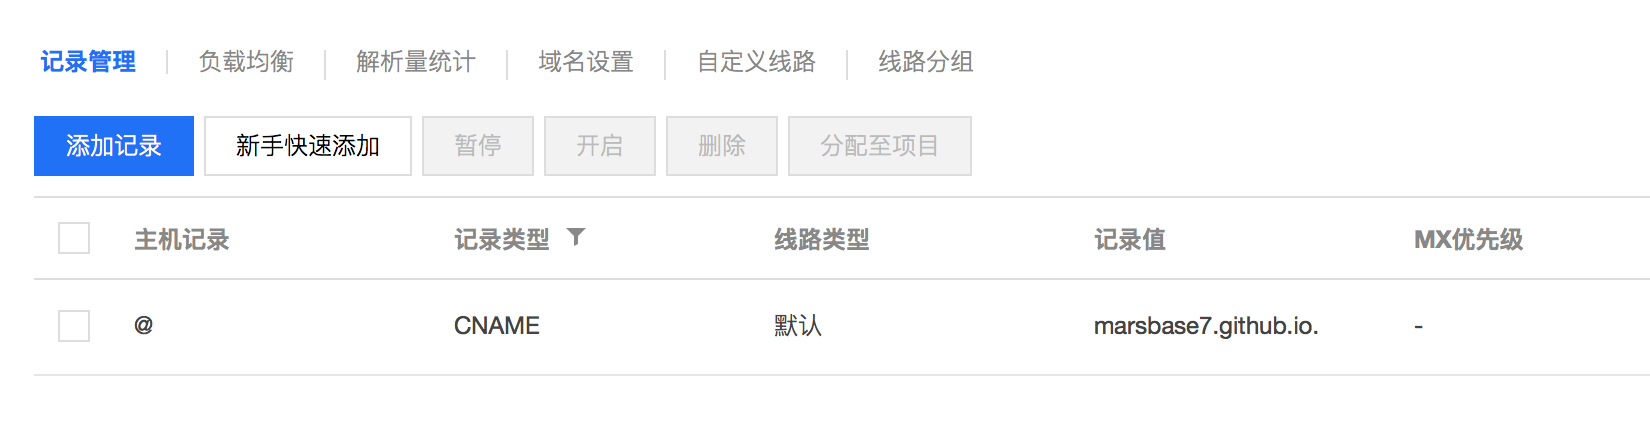
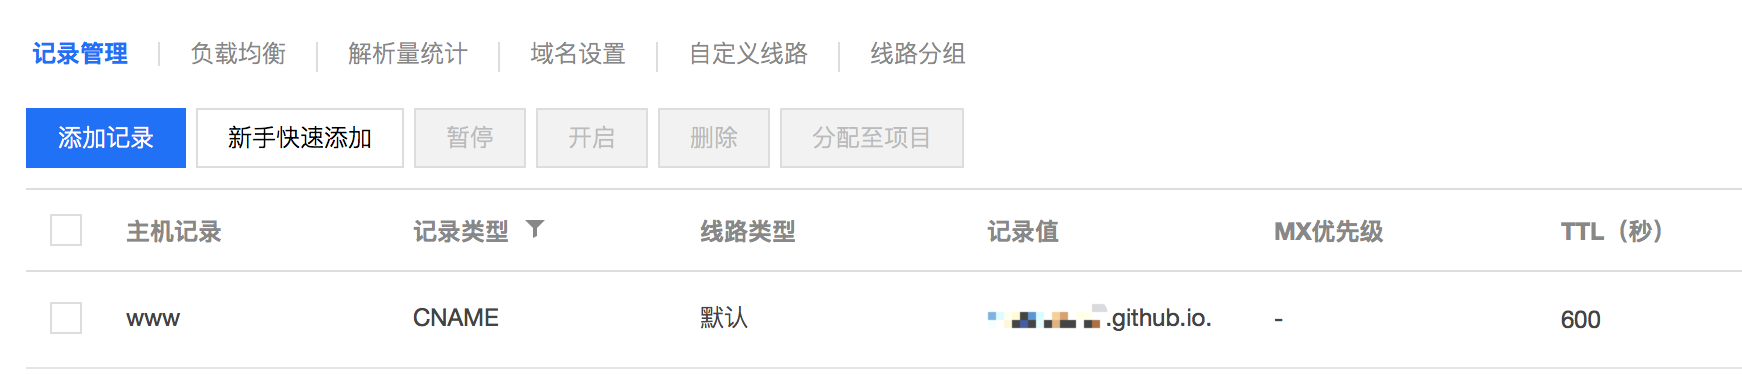
xyz

diff --git a/source/_posts/把BLOG放进冰箱一共分几步.md b/source/_posts/把BLOG放进冰箱一共分几步.md
@@ -139,9 +139,9 @@ $ hexo deploy
 
 {% asset_img cname_set.png %}
 
-然后回到本地，在`blogBase/source/`目录下新建一个`CNAME`文件（注意文件名必须大写），文件内容为私有域名地址。新建文件后再次进行部署：
+然后回到本地，在`blogBase/source/`目录下新建一个`CNAME`文件（注意文件名必须大写），文件内容为私有域名地址（下面以七叔的域名举例）。新建文件后再次进行部署：
 ```
-$ echo 'marsbase.xyz' > CNAME
+$ echo 'www.marsbase.xyz' > CNAME
 $ hexo clean && hexo g && hexo d
 ```
 
@@ -154,6 +154,7 @@ $ hexo clean && hexo g && hexo d
 ```
 npm install hexo-generator-sitemap --save
 npm install hexo-generator-baidu-sitemap --save
+npm install hexo-baidu-url-submit --save
 ```
 
 
